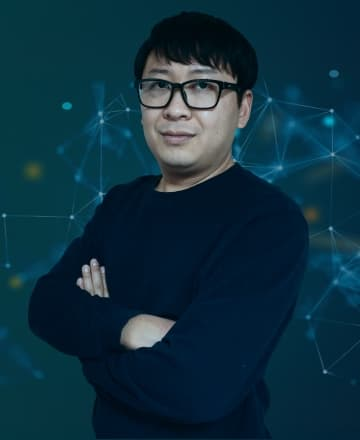
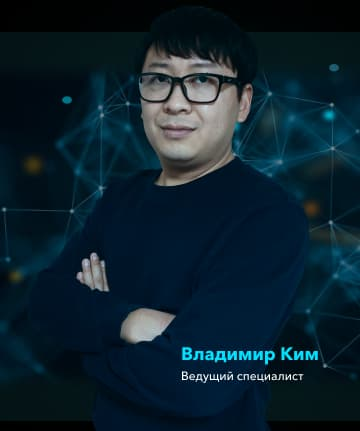
auther block with media

diff --git a/docs/css/main.css b/docs/css/main.css
@@ -1,1 +1,1 @@
-*{margin:0;padding:0;box-sizing:border-box}img{vertical-align:top;display:block}@font-face{font-family:Avenir;src:url("../fonts/Avenir Next Cyr Medium/Avenir Next Cyr Medium.ttf") format("truetype")}:root{box-sizing:border-box;font-size:16px}.section{padding:8.125rem 0 7.5rem;position:relative}.section::before,.section:after{content:"";display:block;width:100%;height:1px;background-color:rgba(0,224,255,.93);box-shadow:0 3px 15px rgba(0,224,255,.93),0 4px 15px #4ad9ec,0 0 24px #00e0ff;filter:blur(2px);position:absolute}.section:after{top:0}.section::before{bottom:0}.title{font-family:Avenir;font-weight:500;font-size:3.375rem;line-height:1.222em;text-transform:uppercase;max-width:14.375em;color:#fff;margin-bottom:3.75rem}.title-blue{color:#4abcec}.btn{font-family:Avenir;font-weight:700;font-size:.75rem;line-height:1.25em;letter-spacing:.25em;text-transform:uppercase;color:#fff;padding:1.9em 1.0833em;background:linear-gradient(180deg,rgba(3,225,255,.66) 0,#13cdc2 100%);box-shadow:0 7px 20px -7px #00e0ff;border-radius:9px;border:none;cursor:pointer}@media (max-width:1230px){:root{font-size:calc(.04rem + 1vw)}}@media (max-width:500px){.title{font-size:30px;line-height:37px}.btn{font-size:12px;line-height:15px;padding:14px 17px}}@media (max-width:374px){:root{font-size:16px}}.col-1{width:8.3333333333%}.col-2{width:16.6666666667%}.col-3{width:25%}.col-4{width:33.3333333333%}.col-5{width:41.6666666667%}.col-6{width:50%}.col-7{width:58.3333333333%}.col-8{width:66.6666666667%}.col-9{width:75%}.col-10{width:83.3333333333%}.col-11{width:91.6666666667%}.col-12{width:100%}[class*=col-]{padding-left:15px;padding-right:15px}.container{max-width:1230px;padding-left:15px;padding-right:15px;margin:0 auto}.row{display:flex;flex-wrap:wrap;margin-right:-15px;margin-left:-15px}@media (min-width:540px){.col-sm-1{width:8.3333333333%}.col-sm-2{width:16.6666666667%}.col-sm-3{width:25%}.col-sm-4{width:33.3333333333%}.col-sm-5{width:41.6666666667%}.col-sm-6{width:50%}.col-sm-7{width:58.3333333333%}.col-sm-8{width:66.6666666667%}.col-sm-9{width:75%}.col-sm-10{width:83.3333333333%}.col-sm-11{width:91.6666666667%}.col-sm-12{width:100%}}@media (min-width:768px){.col-md-1{width:8.3333333333%}.col-md-2{width:16.6666666667%}.col-md-3{width:25%}.col-md-4{width:33.3333333333%}.col-md-5{width:41.6666666667%}.col-md-6{width:50%}.col-md-7{width:58.3333333333%}.col-md-8{width:66.6666666667%}.col-md-9{width:75%}.col-md-10{width:83.3333333333%}.col-md-11{width:91.6666666667%}.col-md-12{width:100%}}@media (min-width:992px){.col-lg-1{width:8.3333333333%}.col-lg-2{width:16.6666666667%}.col-lg-3{width:25%}.col-lg-4{width:33.3333333333%}.col-lg-5{width:41.6666666667%}.col-lg-6{width:50%}.col-lg-7{width:58.3333333333%}.col-lg-8{width:66.6666666667%}.col-lg-9{width:75%}.col-lg-10{width:83.3333333333%}.col-lg-11{width:91.6666666667%}.col-lg-12{width:100%}}.header{background:url(../../img/header/header-bg.jpg) top center/cover no-repeat;font-family:Avenir;color:#fff;font-size:1.125rem;line-height:1.222em;position:relative}.header__top{padding:3rem 0}.header__top-wrapper{display:flex;align-items:center;justify-content:space-between}.header__content{padding:6.6875rem 0 11.125rem}.header .header__content .container{position:relative}.header__content-subtitle{font-weight:400;color:#747d81}.header__content-title{font-weight:400;font-size:6.75rem;line-height:1.222em;background:linear-gradient(180deg,#fff 31.75%,#1a3031 100%);-webkit-background-clip:text;-webkit-text-fill-color:transparent;margin-bottom:1rem}.header__content-description{max-width:36.25rem;font-weight:500;margin-bottom:9.8333em}.header__content-box{display:grid;grid-template-columns:4.4375rem 29.5rem;grid-template-rows:2.375rem 3.1875rem;grid-column-gap:2.0625rem;margin-bottom:6.312rem}.header__img-box{grid-row:1/3;width:4.4375rem;height:4.4375rem;background:linear-gradient(180deg,rgba(0,224,255,.11) 0,rgba(0,224,255,.0539) 100%);border-radius:12px;display:flex;align-items:center;justify-content:center}.header__img{width:2.4375rem;height:2.4375rem}.header__content-box-title{font-weight:700;font-size:1.125rem;line-height:1.222em}.header__content-box-description{grid-column:2/3;font-weight:500;color:rgba(3,225,255,.66)}.header__down{position:absolute;bottom:2rem;left:50%;transform:translateX(-50%);cursor:pointer}.header__down-text{writing-mode:vertical-lr;margin-bottom:32px;font-weight:400;font-size:10px;line-height:12px;letter-spacing:.36em;text-transform:uppercase;color:#747d81;margin-left:8px}.header__down-img{width:100%}.header__content-mobile{display:none}.logo{width:17.937rem;height:5.375rem}.logo__img{width:100%}.phone__link{position:relative;padding-left:2.1875rem;font-weight:500;text-align:right;text-decoration:none;color:inherit}.phone__link::before{content:"";display:block;position:absolute;left:0;top:0;bottom:0;width:1.5625rem;height:1.5625rem;background:url(../../img/svg-icon/phone.svg) center/cover no-repeat}.consultation{display:none;position:absolute;left:-150px;top:0}.consultation__img-box{display:flex;align-items:center;justify-content:center;width:100px;height:100px;background:linear-gradient(180deg,rgba(3,225,255,.66) 0,#13cdc2 100%);box-shadow:0 7px 20px -7px #00e0ff;border-radius:50%}.consultation__text{writing-mode:vertical-lr;font-weight:400;font-size:10px;line-height:12px;letter-spacing:.36em;text-transform:uppercase;color:#00e0ff;margin-left:44px;margin-top:50px}@media (min-width:1550px){.consultation{display:block}}@media (max-width:824px){.header__down{display:none}}@media (max-width:500px){.header{background:url(../../img/mobile-bg/mobile-bg-1.jpg) bottom center/cover no-repeat;font-size:16px;line-height:20px}.header__top{padding:24px 0}.header__content{padding:0 0 75px}.header__content-subtitle{margin-bottom:5px}.header__content-title{font-size:51px;line-height:62px;margin-bottom:5px}.header__content-description{max-width:300px;margin-bottom:45px}.header__content-box{display:grid;grid-template-columns:49px 220px;grid-template-rows:24px auto;grid-column-gap:25px;margin-bottom:20px}.header__img-box{width:49px;height:49px}.header__content-box-title{font-size:16px;line-height:21px}.header__content-box-description{font-size:14px;line-height:28px}.header__content-mobile{display:block;position:relative;margin-bottom:15px}.header__content-mobile img{width:100%}.header__socialls{position:absolute;right:15px;top:50%;transform:translateY(-50%)}.header__soacials-link{display:flex;align-items:center;justify-content:center;width:63px;height:63px;background:linear-gradient(180deg,rgba(3,225,255,.66) 0,#13cdc2 100%);box-shadow:0 7px 20px -7px #00e0ff;border-radius:50%;margin:20px 0}.header__soacials-link img{width:30px;height:30px}.logo{width:195px;height:58px}.phone{display:flex;align-items:center}.phone__link{font-size:0;padding-left:31px}.phone__link::before{width:31px;height:31px}}.causes{background:url(../../img/bg/bg-2.jpg) bottom center/cover no-repeat}.causes__cards{align-items:stretch}.causes .col-md-3{margin-bottom:20px}.causes__card{background:linear-gradient(180deg,rgba(0,224,255,.11) 0,rgba(0,224,255,.0539) 100%);border-radius:20px;padding:2.5rem;border:3px solid #49b9e8;position:relative;height:100%}.causes__card:after{content:"";position:absolute;bottom:-7px;width:41px;height:10px;background:url(../../img/svg-icon/ellipse.svg) center/cover no-repeat}.causes__img{width:3.125rem;height:3.125rem;margin-bottom:1rem}.causes__text{font-family:Avenir;font-weight:450;font-size:.9375rem;line-height:1.2em;color:#fff}@media (max-width:500px){.causes__card{padding:15px}.causes__card:after{bottom:-5px;width:27px;height:7px}.causes__img{width:42px;height:42px;margin-bottom:8px}.causes__text{font-size:14px;line-height:17px}.causes .col-12{margin-bottom:20px}.causes.section{padding:55px 0 70px}}.intelligence{background:url(../../img/intelligence/intelligence-bg.jpg) bottom center/cover no-repeat}.intelligence__list{list-style:none;margin-bottom:4.375rem}.intelligence__item{display:block;margin-bottom:5px;max-width:43.25rem;font-family:Avenir;font-weight:450;font-size:.9375rem;line-height:1.2em;color:#fff;background:linear-gradient(90deg,rgba(31,63,77,.54) 0,rgba(31,75,94,0) 100%);padding:1.5rem 0 1.5rem 4.75rem;position:relative}.intelligence__item::before{content:"";display:block;width:2.0625rem;height:2.0625rem;background:url(../../img/svg-icon/checked_radio_button.svg) center/cover no-repeat;position:absolute;top:1.0625rem;left:1.5rem}.intelligence__img{display:none}@media (max-width:500px){.intelligence{background:url(../../img/mobile-bg/mobile-bg-2.jpg) center/cover no-repeat}.intelligence.section{padding:50px 0 73px}.intelligence__list{margin-bottom:5px}.intelligence__item{margin-bottom:7px;max-width:100%;font-size:14px;line-height:21px;padding:24px 35px 24px 77px;position:relative}.intelligence__item::before{width:33px;height:33px;top:17px;left:24px}.intelligence__img{display:block;width:100%;margin-bottom:5px}}.understand{background:url(../../img/bg/bg-2.jpg) bottom center/cover no-repeat}.understand__block{display:flex;justify-content:space-between;align-items:center;margin-bottom:3.125rem;gap:20px}.understand__img{max-width:285px;width:100%;border-radius:20px;overflow:hidden;border:2px solid #49b9e8}.understand__img img{width:100%}.understand__text{font-family:Avenir;font-weight:450;font-size:1rem;line-height:1.4375em;color:#fff;max-width:263px}@media (max-width:540px){.understand.section{padding:50px 0 73px}.understand__block{flex-direction:column;margin-bottom:3.125rem;gap:0}.understand__img{max-width:100%;margin-bottom:17px}.understand__text{width:100%;font-size:14px;line-height:17px}.understand__block-down{display:flex;flex-direction:column-reverse}}.question{background:url(../../img/question/question-bg.jpg) top center/cover no-repeat}.question__title{max-width:55.625rem}.question__list{list-style:none;margin-bottom:3.3125rem}.question__item{max-width:50rem;font-family:Avenir;font-weight:450;font-size:1rem;line-height:1.4375em;color:#fff;margin-bottom:20px;padding:11px 0 0 57px;position:relative}.question__item::before{content:"";width:86px;height:36px;position:absolute;left:0;top:0;background:url(../../img/svg-icon/question-item.svg) center/cover no-repeat}.question__img{display:none}@media (max-width:500px){.question{background:url(../../img/mobile-bg/mobile-bg-1.jpg) top center/cover no-repeat}.question.section{padding:50px 0 73px}.question__title{max-width:308px}.question__list{margin-bottom:5px}.question__item{max-width:100%;font-size:14px;line-height:20px;margin-bottom:17px;padding:0 0 0 36px}.question__item::before{content:"";width:65px;height:24px;top:-4px}.question__img{display:block;margin-bottom:5px;width:100%}}.knowledge{background:url(../../img/bg/bg-2.jpg) bottom center/cover no-repeat;font-family:Avenir;font-weight:450;counter-reset:knowledge;color:#fff}.knowledge__title{margin-bottom:30px}.knowledge__subtitle{font-size:18px;line-height:22px;margin-bottom:30px}.knowledge__blocks{margin-bottom:59px}.knowledge__item{margin-bottom:20px}.knowledge__header{display:flex;align-items:center;justify-content:space-between;background:linear-gradient(286.41deg,#073447 3.63%,#08262b 90.98%);border-radius:6px;margin-bottom:35px;padding:15px}.knowledge__header-info{display:flex;align-items:center;flex-wrap:wrap}.knowledge__dote{width:10px;height:10px;background:linear-gradient(180deg,#00e0ff 0,#4a8bec 100%);box-shadow:0 4px 8px rgba(0,224,255,.56);border-radius:50%;margin-right:16px}.knowledge__header-title{font-family:Avenir;font-weight:750;font-size:20px;line-height:21px;margin-right:10px}.knowledge__header-description{font-family:Avenir;font-weight:450;font-size:15px;line-height:21px;color:#08b1b9}.knowledge__header-btn{width:32px;height:32px;background:linear-gradient(180deg,rgba(0,224,255,.11) 0,rgba(0,224,255,.0539) 100%);border-radius:6px;border:none;display:flex;align-items:center;justify-content:center}.knowledge__body{display:none}.knowledge__info{counter-increment:knowledge;position:relative;padding-left:41px;font-family:Avenir;font-size:16px;line-height:21px;margin-bottom:40px}.knowledge__info::before{content:counter(knowledge);width:27px;height:27px;background:#4abcec;position:absolute;border-radius:50%;top:0;left:0;font-family:Avenir;font-weight:750;font-size:14px;line-height:21px;color:#08262b;display:flex;align-items:center;justify-content:center}.knowledge__info-title{color:#4abcec;margin-bottom:15px}.knowledge__header-development{font-weight:450;font-size:13px;line-height:21px;text-transform:uppercase;color:#08262b;background:#00e0ff;padding:0 3px;margin-left:20px}.knowledge__item--open .knowledge__header-img{transform:rotateZ(180deg)}.knowledge__item--open .knowledge__body{display:block}@media (max-width:500px){.knowledge__subtitle{font-size:16px;line-height:20px}.knowledge__blocks{margin-bottom:45px}.knowledge__header{margin-bottom:22px}.knowledge__header-title{margin-right:5px}.knowledge__info{padding-left:35px;font-size:14px;margin-bottom:24px}.knowledge__header-development{font-weight:450;font-size:13px;line-height:21px;text-transform:uppercase;color:#08262b;background:#00e0ff;padding:0 3px;margin-left:20px}.knowledge__info-text{height:110px;overflow:hidden;position:relative;background:linear-gradient(180deg,#fff 68.23%,rgba(255,255,255,0) 100%);-webkit-background-clip:text;-webkit-text-fill-color:transparent;background-clip:text;text-fill-color:transparent}.knowledge__info-text--open{background:linear-gradient(180deg,#fff 68.23%,#fff 100%);-webkit-background-clip:text;-webkit-text-fill-color:transparent;background-clip:text;text-fill-color:transparent;height:100%;transition:height .5s}.knowledge__item--open .knowledge__header-img{transform:rotateZ(180deg)}.knowledge__item--open .knowledge__body{display:block}}.auther{background:url(../../img/auther/auther-bg.jpg) center/cover no-repeat;color:#fff}.auther.section{padding-bottom:0}.auther__inner{display:flex;gap:5.625rem}.auther__info{max-width:500px}.auther__text{font-family:Avenir;font-weight:450;font-size:.9375rem;line-height:1.6em;margin-bottom:1em}.auther__img-box{max-width:441px;position:relative;top:5px}.auther__img{width:100%}.auther__man{position:absolute;bottom:120px;left:250px}.auther__name{font-family:Avenir;font-weight:750;font-size:24px;line-height:20px;color:#00e0ff}.auther__proffesion{font-family:Avenir;font-style:normal;font-weight:450;font-size:14px;line-height:20px;color:#fff}
+*{margin:0;padding:0;box-sizing:border-box}img{vertical-align:top;display:block}@font-face{font-family:Avenir;src:url("../fonts/Avenir Next Cyr Medium/Avenir Next Cyr Medium.ttf") format("truetype")}:root{box-sizing:border-box;font-size:16px}.section{padding:8.125rem 0 7.5rem;position:relative}.section::before,.section:after{content:"";display:block;width:100%;height:1px;background-color:rgba(0,224,255,.93);box-shadow:0 3px 15px rgba(0,224,255,.93),0 4px 15px #4ad9ec,0 0 24px #00e0ff;filter:blur(2px);position:absolute}.section:after{top:0}.section::before{bottom:0}.title{font-family:Avenir;font-weight:500;font-size:3.375rem;line-height:1.222em;text-transform:uppercase;max-width:14.375em;color:#fff;margin-bottom:3.75rem}.title-blue{color:#4abcec}.btn{font-family:Avenir;font-weight:700;font-size:.75rem;line-height:1.25em;letter-spacing:.25em;text-transform:uppercase;color:#fff;padding:1.9em 1.0833em;background:linear-gradient(180deg,rgba(3,225,255,.66) 0,#13cdc2 100%);box-shadow:0 7px 20px -7px #00e0ff;border-radius:9px;border:none;cursor:pointer}@media (max-width:1230px){:root{font-size:calc(.04rem + 1vw)}}@media (max-width:500px){.title{font-size:30px;line-height:37px}.btn{font-size:12px;line-height:15px;padding:14px 17px}}@media (max-width:374px){:root{font-size:16px}}.col-1{width:8.3333333333%}.col-2{width:16.6666666667%}.col-3{width:25%}.col-4{width:33.3333333333%}.col-5{width:41.6666666667%}.col-6{width:50%}.col-7{width:58.3333333333%}.col-8{width:66.6666666667%}.col-9{width:75%}.col-10{width:83.3333333333%}.col-11{width:91.6666666667%}.col-12{width:100%}[class*=col-]{padding-left:15px;padding-right:15px}.container{max-width:1230px;padding-left:15px;padding-right:15px;margin:0 auto}.row{display:flex;flex-wrap:wrap;margin-right:-15px;margin-left:-15px}@media (min-width:540px){.col-sm-1{width:8.3333333333%}.col-sm-2{width:16.6666666667%}.col-sm-3{width:25%}.col-sm-4{width:33.3333333333%}.col-sm-5{width:41.6666666667%}.col-sm-6{width:50%}.col-sm-7{width:58.3333333333%}.col-sm-8{width:66.6666666667%}.col-sm-9{width:75%}.col-sm-10{width:83.3333333333%}.col-sm-11{width:91.6666666667%}.col-sm-12{width:100%}}@media (min-width:768px){.col-md-1{width:8.3333333333%}.col-md-2{width:16.6666666667%}.col-md-3{width:25%}.col-md-4{width:33.3333333333%}.col-md-5{width:41.6666666667%}.col-md-6{width:50%}.col-md-7{width:58.3333333333%}.col-md-8{width:66.6666666667%}.col-md-9{width:75%}.col-md-10{width:83.3333333333%}.col-md-11{width:91.6666666667%}.col-md-12{width:100%}}@media (min-width:992px){.col-lg-1{width:8.3333333333%}.col-lg-2{width:16.6666666667%}.col-lg-3{width:25%}.col-lg-4{width:33.3333333333%}.col-lg-5{width:41.6666666667%}.col-lg-6{width:50%}.col-lg-7{width:58.3333333333%}.col-lg-8{width:66.6666666667%}.col-lg-9{width:75%}.col-lg-10{width:83.3333333333%}.col-lg-11{width:91.6666666667%}.col-lg-12{width:100%}}.header{background:url(../../img/header/header-bg.jpg) top center/cover no-repeat;font-family:Avenir;color:#fff;font-size:1.125rem;line-height:1.222em;position:relative}.header__top{padding:3rem 0}.header__top-wrapper{display:flex;align-items:center;justify-content:space-between}.header__content{padding:6.6875rem 0 11.125rem}.header .header__content .container{position:relative}.header__content-subtitle{font-weight:400;color:#747d81}.header__content-title{font-weight:400;font-size:6.75rem;line-height:1.222em;background:linear-gradient(180deg,#fff 31.75%,#1a3031 100%);-webkit-background-clip:text;-webkit-text-fill-color:transparent;margin-bottom:1rem}.header__content-description{max-width:36.25rem;font-weight:500;margin-bottom:9.8333em}.header__content-box{display:grid;grid-template-columns:4.4375rem 29.5rem;grid-template-rows:2.375rem 3.1875rem;grid-column-gap:2.0625rem;margin-bottom:6.312rem}.header__img-box{grid-row:1/3;width:4.4375rem;height:4.4375rem;background:linear-gradient(180deg,rgba(0,224,255,.11) 0,rgba(0,224,255,.0539) 100%);border-radius:12px;display:flex;align-items:center;justify-content:center}.header__img{width:2.4375rem;height:2.4375rem}.header__content-box-title{font-weight:700;font-size:1.125rem;line-height:1.222em}.header__content-box-description{grid-column:2/3;font-weight:500;color:rgba(3,225,255,.66)}.header__down{position:absolute;bottom:2rem;left:50%;transform:translateX(-50%);cursor:pointer}.header__down-text{writing-mode:vertical-lr;margin-bottom:32px;font-weight:400;font-size:10px;line-height:12px;letter-spacing:.36em;text-transform:uppercase;color:#747d81;margin-left:8px}.header__down-img{width:100%}.header__content-mobile{display:none}.logo{width:17.937rem;height:5.375rem}.logo__img{width:100%}.phone__link{position:relative;padding-left:2.1875rem;font-weight:500;text-align:right;text-decoration:none;color:inherit}.phone__link::before{content:"";display:block;position:absolute;left:0;top:0;bottom:0;width:1.5625rem;height:1.5625rem;background:url(../../img/svg-icon/phone.svg) center/cover no-repeat}.consultation{display:none;position:absolute;left:-150px;top:0}.consultation__img-box{display:flex;align-items:center;justify-content:center;width:100px;height:100px;background:linear-gradient(180deg,rgba(3,225,255,.66) 0,#13cdc2 100%);box-shadow:0 7px 20px -7px #00e0ff;border-radius:50%}.consultation__text{writing-mode:vertical-lr;font-weight:400;font-size:10px;line-height:12px;letter-spacing:.36em;text-transform:uppercase;color:#00e0ff;margin-left:44px;margin-top:50px}@media (min-width:1550px){.consultation{display:block}}@media (max-width:824px){.header__down{display:none}}@media (max-width:500px){.header{background:url(../../img/mobile-bg/mobile-bg-1.jpg) bottom center/cover no-repeat;font-size:16px;line-height:20px}.header__top{padding:24px 0}.header__content{padding:0 0 75px}.header__content-subtitle{margin-bottom:5px}.header__content-title{font-size:51px;line-height:62px;margin-bottom:5px}.header__content-description{max-width:300px;margin-bottom:45px}.header__content-box{display:grid;grid-template-columns:49px 220px;grid-template-rows:24px auto;grid-column-gap:25px;margin-bottom:20px}.header__img-box{width:49px;height:49px}.header__content-box-title{font-size:16px;line-height:21px}.header__content-box-description{font-size:14px;line-height:28px}.header__content-mobile{display:block;position:relative;margin-bottom:15px}.header__content-mobile img{width:100%}.header__socialls{position:absolute;right:15px;top:50%;transform:translateY(-50%)}.header__soacials-link{display:flex;align-items:center;justify-content:center;width:63px;height:63px;background:linear-gradient(180deg,rgba(3,225,255,.66) 0,#13cdc2 100%);box-shadow:0 7px 20px -7px #00e0ff;border-radius:50%;margin:20px 0}.header__soacials-link img{width:30px;height:30px}.logo{width:195px;height:58px}.phone{display:flex;align-items:center}.phone__link{font-size:0;padding-left:31px}.phone__link::before{width:31px;height:31px}}.causes{background:url(../../img/bg/bg-2.jpg) bottom center/cover no-repeat}.causes__cards{align-items:stretch}.causes .col-md-3{margin-bottom:20px}.causes__card{background:linear-gradient(180deg,rgba(0,224,255,.11) 0,rgba(0,224,255,.0539) 100%);border-radius:20px;padding:2.5rem;border:3px solid #49b9e8;position:relative;height:100%}.causes__card:after{content:"";position:absolute;bottom:-7px;width:41px;height:10px;background:url(../../img/svg-icon/ellipse.svg) center/cover no-repeat}.causes__img{width:3.125rem;height:3.125rem;margin-bottom:1rem}.causes__text{font-family:Avenir;font-weight:450;font-size:.9375rem;line-height:1.2em;color:#fff}@media (max-width:500px){.causes__card{padding:15px}.causes__card:after{bottom:-5px;width:27px;height:7px}.causes__img{width:42px;height:42px;margin-bottom:8px}.causes__text{font-size:14px;line-height:17px}.causes .col-12{margin-bottom:20px}.causes.section{padding:55px 0 70px}}.intelligence{background:url(../../img/intelligence/intelligence-bg.jpg) bottom center/cover no-repeat}.intelligence__list{list-style:none;margin-bottom:4.375rem}.intelligence__item{display:block;margin-bottom:5px;max-width:43.25rem;font-family:Avenir;font-weight:450;font-size:.9375rem;line-height:1.2em;color:#fff;background:linear-gradient(90deg,rgba(31,63,77,.54) 0,rgba(31,75,94,0) 100%);padding:1.5rem 0 1.5rem 4.75rem;position:relative}.intelligence__item::before{content:"";display:block;width:2.0625rem;height:2.0625rem;background:url(../../img/svg-icon/checked_radio_button.svg) center/cover no-repeat;position:absolute;top:1.0625rem;left:1.5rem}.intelligence__img{display:none}@media (max-width:500px){.intelligence{background:url(../../img/mobile-bg/mobile-bg-2.jpg) center/cover no-repeat}.intelligence.section{padding:50px 0 73px}.intelligence__list{margin-bottom:5px}.intelligence__item{margin-bottom:7px;max-width:100%;font-size:14px;line-height:21px;padding:24px 35px 24px 77px;position:relative}.intelligence__item::before{width:33px;height:33px;top:17px;left:24px}.intelligence__img{display:block;width:100%;margin-bottom:5px}}.understand{background:url(../../img/bg/bg-2.jpg) bottom center/cover no-repeat}.understand__block{display:flex;justify-content:space-between;align-items:center;margin-bottom:3.125rem;gap:20px}.understand__img{max-width:285px;width:100%;border-radius:20px;overflow:hidden;border:2px solid #49b9e8}.understand__img img{width:100%}.understand__text{font-family:Avenir;font-weight:450;font-size:1rem;line-height:1.4375em;color:#fff;max-width:263px}@media (max-width:540px){.understand.section{padding:50px 0 73px}.understand__block{flex-direction:column;margin-bottom:3.125rem;gap:0}.understand__img{max-width:100%;margin-bottom:17px}.understand__text{width:100%;font-size:14px;line-height:17px}.understand__block-down{display:flex;flex-direction:column-reverse}}.question{background:url(../../img/question/question-bg.jpg) top center/cover no-repeat}.question__title{max-width:55.625rem}.question__list{list-style:none;margin-bottom:3.3125rem}.question__item{max-width:50rem;font-family:Avenir;font-weight:450;font-size:1rem;line-height:1.4375em;color:#fff;margin-bottom:20px;padding:11px 0 0 57px;position:relative}.question__item::before{content:"";width:86px;height:36px;position:absolute;left:0;top:0;background:url(../../img/svg-icon/question-item.svg) center/cover no-repeat}.question__img{display:none}@media (max-width:500px){.question{background:url(../../img/mobile-bg/mobile-bg-1.jpg) top center/cover no-repeat}.question.section{padding:50px 0 73px}.question__title{max-width:308px}.question__list{margin-bottom:5px}.question__item{max-width:100%;font-size:14px;line-height:20px;margin-bottom:17px;padding:0 0 0 36px}.question__item::before{content:"";width:65px;height:24px;top:-4px}.question__img{display:block;margin-bottom:5px;width:100%}}.knowledge{background:url(../../img/bg/bg-2.jpg) bottom center/cover no-repeat;font-family:Avenir;font-weight:450;counter-reset:knowledge;color:#fff}.knowledge__title{margin-bottom:30px}.knowledge__subtitle{font-size:18px;line-height:22px;margin-bottom:30px}.knowledge__blocks{margin-bottom:59px}.knowledge__item{margin-bottom:20px}.knowledge__header{display:flex;align-items:center;justify-content:space-between;background:linear-gradient(286.41deg,#073447 3.63%,#08262b 90.98%);border-radius:6px;margin-bottom:35px;padding:15px}.knowledge__header-info{display:flex;align-items:center;flex-wrap:wrap}.knowledge__dote{width:10px;height:10px;background:linear-gradient(180deg,#00e0ff 0,#4a8bec 100%);box-shadow:0 4px 8px rgba(0,224,255,.56);border-radius:50%;margin-right:16px}.knowledge__header-title{font-family:Avenir;font-weight:750;font-size:20px;line-height:21px;margin-right:10px}.knowledge__header-description{font-family:Avenir;font-weight:450;font-size:15px;line-height:21px;color:#08b1b9}.knowledge__header-btn{width:32px;height:32px;background:linear-gradient(180deg,rgba(0,224,255,.11) 0,rgba(0,224,255,.0539) 100%);border-radius:6px;border:none;display:flex;align-items:center;justify-content:center}.knowledge__body{display:none}.knowledge__info{counter-increment:knowledge;position:relative;padding-left:41px;font-family:Avenir;font-size:16px;line-height:21px;margin-bottom:40px}.knowledge__info::before{content:counter(knowledge);width:27px;height:27px;background:#4abcec;position:absolute;border-radius:50%;top:0;left:0;font-family:Avenir;font-weight:750;font-size:14px;line-height:21px;color:#08262b;display:flex;align-items:center;justify-content:center}.knowledge__info-title{color:#4abcec;margin-bottom:15px}.knowledge__header-development{font-weight:450;font-size:13px;line-height:21px;text-transform:uppercase;color:#08262b;background:#00e0ff;padding:0 3px;margin-left:20px}.knowledge__item--open .knowledge__header-img{transform:rotateZ(180deg)}.knowledge__item--open .knowledge__body{display:block}@media (max-width:500px){.knowledge__subtitle{font-size:16px;line-height:20px}.knowledge__blocks{margin-bottom:45px}.knowledge__header{margin-bottom:22px}.knowledge__header-title{margin-right:5px}.knowledge__info{padding-left:35px;font-size:14px;margin-bottom:24px}.knowledge__header-development{font-weight:450;font-size:13px;line-height:21px;text-transform:uppercase;color:#08262b;background:#00e0ff;padding:0 3px;margin-left:20px}.knowledge__info-text{height:110px;overflow:hidden;position:relative;background:linear-gradient(180deg,#fff 68.23%,rgba(255,255,255,0) 100%);-webkit-background-clip:text;-webkit-text-fill-color:transparent;background-clip:text;text-fill-color:transparent}.knowledge__info-text--open{background:linear-gradient(180deg,#fff 68.23%,#fff 100%);-webkit-background-clip:text;-webkit-text-fill-color:transparent;background-clip:text;text-fill-color:transparent;height:100%;transition:height .5s}.knowledge__item--open .knowledge__header-img{transform:rotateZ(180deg)}.knowledge__item--open .knowledge__body{display:block}}.auther{background:url(../../img/auther/auther-bg.jpg) center/cover no-repeat;color:#fff}.auther.section{padding-bottom:0}.auther__inner{display:flex;gap:5.625rem}.auther__info{max-width:500px}.auther__text{font-family:Avenir;font-weight:450;font-size:.9375rem;line-height:1.6em;margin-bottom:1em}.auther__img-box{max-width:441px;position:relative}.auther__img{width:100%}.auther__man{position:absolute;bottom:7.5rem;left:15.625rem}.auther__name{font-family:Avenir;font-weight:750;font-size:1.5rem;line-height:.8333em;color:#00e0ff}.auther__proffesion{font-family:Avenir;font-style:normal;font-weight:450;font-size:.875rem;line-height:1.428em;color:#fff}.auther__mobile-img{display:none}@media (max-width:500px){.auther{background:url(../../img/mobile-bg/mobile-bg-1.jpg) top center/cover no-repeat}.auther.section{padding-top:65px}.auther__inner{display:flex;gap:0;flex-direction:column}.auther__info{max-width:100%}.auther__title{font-size:30px;line-height:37px;margin-bottom:40px}.auther__text{font-size:14px;line-height:24px;margin-bottom:40px}.auther__img-box{display:none}.auther__mobile-img{display:block;width:100%}}

diff --git a/app/scss/blocks/auther.scss b/app/scss/blocks/auther.scss
@@ -1,6 +1,5 @@
 .auther {
-  background: url("../../img/auther/auther-bg.jpg") no-repeat 
-    center/cover;
+  background: url("../../img/auther/auther-bg.jpg") no-repeat center/cover;
   color: #fff;
   &.section {
     padding-bottom: 0;
@@ -25,7 +24,6 @@
   &__img-box {
     max-width: 441px;
     position: relative;
-    top: 5px;
   }
 
   &__img {
@@ -34,15 +32,15 @@
 
   &__man {
     position: absolute;
-    bottom: 120px;
-    left: 250px;
+    bottom: 7.5rem;
+    left: 15.625rem;
   }
 
   &__name {
     font-family: "Avenir";
     font-weight: 750;
-    font-size: 24px;
-    line-height: 20px;
+    font-size: 1.5rem;
+    line-height: 0.8333em;
     color: #00e0ff;
   }
 
@@ -50,8 +48,50 @@
     font-family: "Avenir";
     font-style: normal;
     font-weight: 450;
-    font-size: 14px;
-    line-height: 20px;
+    font-size: 0.875rem;
+    line-height: 1.428em;
     color: #ffffff;
+  }
+  &__mobile-img {
+    display: none;
+  }
+}
+
+@media (max-width: 500px) {
+  .auther {
+    background: url("../../img/mobile-bg/mobile-bg-1.jpg") no-repeat top
+      center/cover;
+    &.section {
+      padding-top: 65px;
+    }
+    &__inner {
+      display: flex;
+      gap: 0px;
+      flex-direction: column;
+    }
+
+    &__info {
+      max-width: 100%;
+    }
+
+    &__title {
+      font-size: 30px;
+      line-height: 37px;
+      margin-bottom: 40px;
+    }
+
+    &__text {
+      font-size: 14px;
+      line-height: 24px;
+      margin-bottom: 40px;
+    }
+
+    &__img-box {
+      display: none;
+    }
+    &__mobile-img {
+      display: block;
+      width: 100%;
+    }
   }
 }

diff --git a/docs/index.html b/docs/index.html
@@ -5,8 +5,8 @@
     <meta charset="UTF-8">
     <meta name="viewport" content="width=device-width, initial-scale=1.0">
     <title>Document</title>
-    <link rel="stylesheet" href="css/main.css?t=1652705903512">
-    <script defer src="js/main.js?t=1652705903512"></script>
+    <link rel="stylesheet" href="css/main.css?t=1652706987852">
+    <script defer src="js/main.js?t=1652706987852"></script>
 </head>
 
 <body>
@@ -742,6 +742,7 @@
             <p class="auther__proffesion">Ведущий специалист</p>
         </div>
       </div>
+<picture><source srcset="../../img/auther/auther-mobile.avif" type="image/avif"><source srcset="../../img/auther/auther-mobile.webp" type="image/webp"><img src="../../img/auther/auther-mobile.png" alt="mobile auther" class="auther__mobile-img"></picture>
     </div>
   </div>
 </section>

diff --git a/app/html/blocks/auther.html b/app/html/blocks/auther.html
@@ -33,6 +33,7 @@
             <p class="auther__proffesion">Ведущий специалист</p>
         </div>
       </div>
+      <img src="../../img/auther/auther-mobile.png" alt="mobile auther" class="auther__mobile-img">
     </div>
   </div>
 </section>
